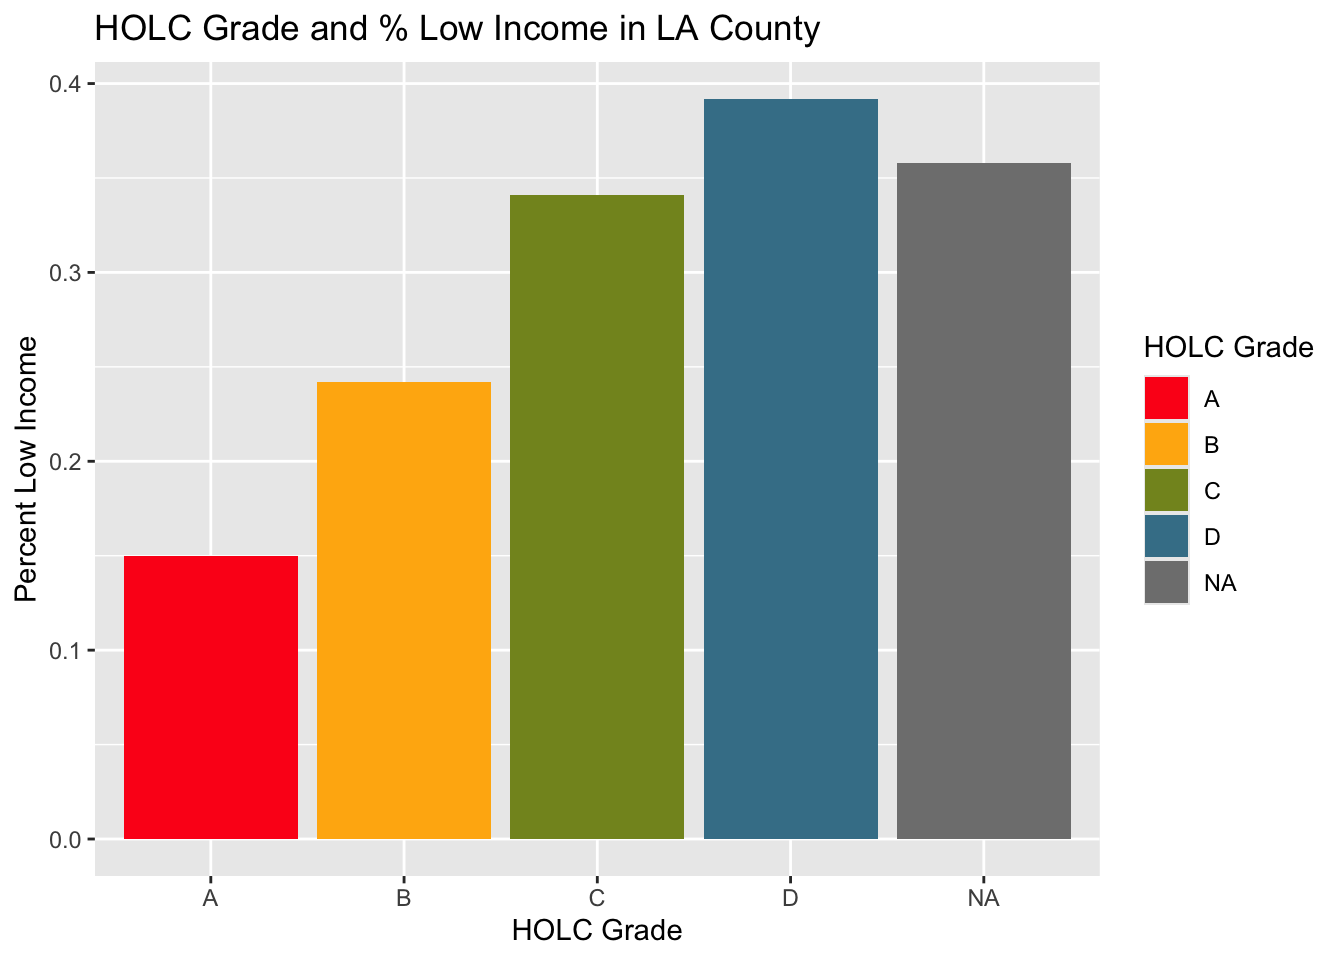
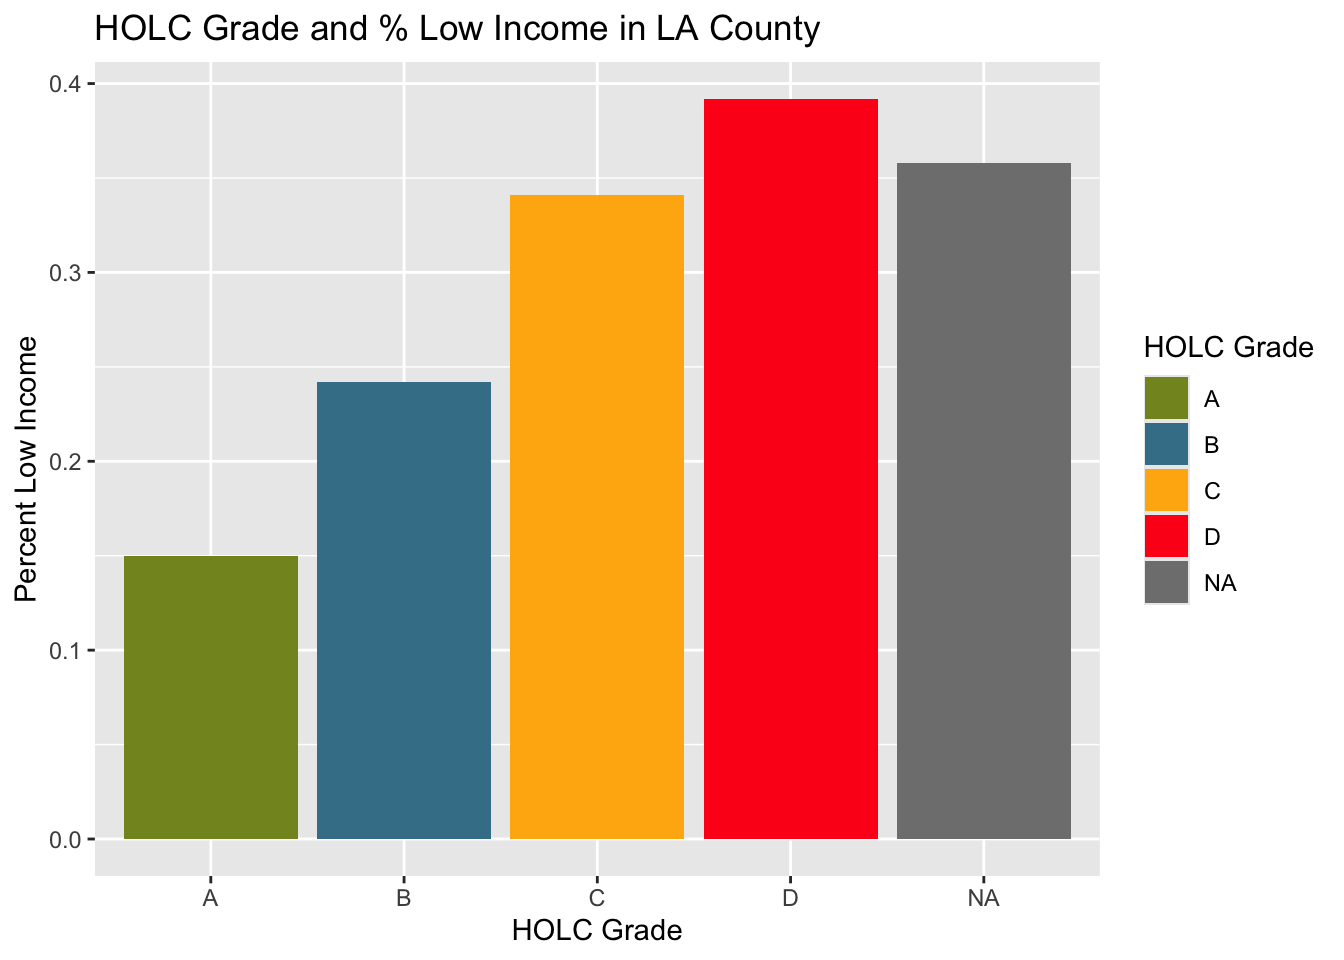
make changes to graphs

Changed region(s): [[0.0938, 0.0938, 0.6562, 0.875], [0.8438, 0.375, 0.9062, 0.5938]]

diff --git a/holc-biodiversity.html b/holc-biodiversity.html
@@ -131,7 +131,7 @@ pre > code.sourceCode > span > a:first-child::before { text-decoration: underlin
 
 <section id="about" class="level2">
 <h2 class="anchored" data-anchor-id="about">About</h2>
-<p>Redlining refers to a practice by the Home Owners’ Loan Corporation(HOLC) that dates back to the 1930’s. The HOLC would rate neighborhoods (A, B, C, or D) by “residential security” in various American cities. In this analysis we will explore the effects of redlining on health, economy, and environment today.</p>
+<p>Redlining refers to a practice by the Home Owners’ Loan Corporation(HOLC) that dates back to the 1930’s. The HOLC would rate neighborhoods (A - green, B - blue, C- yellow, or D - red) by “residential security” in various American cities. These ratings were often based on racial segregation and would then block access to loans for homeowners (<a href="https://pmc.ncbi.nlm.nih.gov/articles/PMC1447127/">Gee, G.C.</a> ). In this analysis we will explore the effects of redlining on health, economy, and environment today.</p>
 <section id="load-packages" class="level3">
 <h3 class="anchored" data-anchor-id="load-packages">Load packages</h3>
 <div class="cell">
@@ -198,7 +198,7 @@ pre > code.sourceCode > span > a:first-child::before { text-decoration: underlin
 <span id="cb5-6"><a href="#cb5-6" aria-hidden="true" tabindex="-1"></a><span class="fu">tm_shape</span>(la_red) <span class="sc">+</span></span>
 <span id="cb5-7"><a href="#cb5-7" aria-hidden="true" tabindex="-1"></a><span class="fu">tm_fill</span>(<span class="st">"grade"</span>,</span>
 <span id="cb5-8"><a href="#cb5-8" aria-hidden="true" tabindex="-1"></a>        <span class="at">title =</span> <span class="st">"HOLC grade"</span>,</span>
-<span id="cb5-9"><a href="#cb5-9" aria-hidden="true" tabindex="-1"></a>        <span class="at">palette =</span> <span class="fu">c</span>(<span class="st">"#FD151B"</span>, <span class="st">"#FFB30F"</span>, <span class="st">"#849324"</span>, <span class="st">"#437F97"</span>)) <span class="sc">+</span></span>
+<span id="cb5-9"><a href="#cb5-9" aria-hidden="true" tabindex="-1"></a>        <span class="at">palette =</span> <span class="fu">c</span>(<span class="st">"#849324"</span>,<span class="st">"#437F97"</span>, <span class="st">"#FFB30F"</span>, <span class="st">"#FD151B"</span>)) <span class="sc">+</span></span>
 <span id="cb5-10"><a href="#cb5-10" aria-hidden="true" tabindex="-1"></a>  <span class="fu">tm_scale_bar</span>(<span class="at">position =</span> <span class="fu">c</span>(<span class="st">"right"</span>, <span class="st">"top"</span>)) <span class="sc">+</span></span>
 <span id="cb5-11"><a href="#cb5-11" aria-hidden="true" tabindex="-1"></a>  <span class="fu">tm_compass</span>(<span class="at">position =</span> <span class="fu">c</span>(<span class="st">"right"</span>, <span class="st">"top"</span>),</span>
 <span id="cb5-12"><a href="#cb5-12" aria-hidden="true" tabindex="-1"></a>             <span class="at">size =</span> <span class="fl">1.5</span>,</span>
@@ -285,7 +285,7 @@ pre > code.sourceCode > span > a:first-child::before { text-decoration: underlin
 <span id="cb7-12"><a href="#cb7-12" aria-hidden="true" tabindex="-1"></a>                          <span class="at">y =</span> lowincpct, </span>
 <span id="cb7-13"><a href="#cb7-13" aria-hidden="true" tabindex="-1"></a>                          <span class="at">fill =</span> grade)) <span class="sc">+</span></span>
 <span id="cb7-14"><a href="#cb7-14" aria-hidden="true" tabindex="-1"></a>  <span class="fu">geom_col</span>() <span class="sc">+</span></span>
-<span id="cb7-15"><a href="#cb7-15" aria-hidden="true" tabindex="-1"></a>  <span class="fu">scale_fill_manual</span>(<span class="at">values =</span> <span class="fu">c</span>(<span class="st">"#FD151B"</span>, <span class="st">"#FFB30F"</span>, <span class="st">"#849324"</span>, <span class="st">"#437F97"</span>)) <span class="sc">+</span></span>
+<span id="cb7-15"><a href="#cb7-15" aria-hidden="true" tabindex="-1"></a>  <span class="fu">scale_fill_manual</span>(<span class="at">values =</span> <span class="fu">c</span>(<span class="st">"#849324"</span>,<span class="st">"#437F97"</span>, <span class="st">"#FFB30F"</span>, <span class="st">"#FD151B"</span>)) <span class="sc">+</span></span>
 <span id="cb7-16"><a href="#cb7-16" aria-hidden="true" tabindex="-1"></a>  <span class="fu">labs</span>(<span class="at">x =</span> <span class="st">"HOLC Grade"</span>, </span>
 <span id="cb7-17"><a href="#cb7-17" aria-hidden="true" tabindex="-1"></a>       <span class="at">y =</span> <span class="st">"Percent Low Income"</span>, </span>
 <span id="cb7-18"><a href="#cb7-18" aria-hidden="true" tabindex="-1"></a>       <span class="at">fill =</span> <span class="st">'HOLC Grade'</span>) <span class="sc">+</span></span>
@@ -305,7 +305,7 @@ pre > code.sourceCode > span > a:first-child::before { text-decoration: underlin
 <span id="cb8-3"><a href="#cb8-3" aria-hidden="true" tabindex="-1"></a>                          <span class="at">y =</span> pm25, </span>
 <span id="cb8-4"><a href="#cb8-4" aria-hidden="true" tabindex="-1"></a>                          <span class="at">fill =</span> grade)) <span class="sc">+</span></span>
 <span id="cb8-5"><a href="#cb8-5" aria-hidden="true" tabindex="-1"></a>  <span class="fu">geom_col</span>() <span class="sc">+</span></span>
-<span id="cb8-6"><a href="#cb8-6" aria-hidden="true" tabindex="-1"></a>  <span class="fu">scale_fill_manual</span>(<span class="at">values =</span> <span class="fu">c</span>(<span class="st">"#FD151B"</span>, <span class="st">"#FFB30F"</span>, <span class="st">"#849324"</span>, <span class="st">"#437F97"</span>)) <span class="sc">+</span></span>
+<span id="cb8-6"><a href="#cb8-6" aria-hidden="true" tabindex="-1"></a>  <span class="fu">scale_fill_manual</span>(<span class="at">values =</span> <span class="fu">c</span>(<span class="st">"#849324"</span>,<span class="st">"#437F97"</span>, <span class="st">"#FFB30F"</span>, <span class="st">"#FD151B"</span>)) <span class="sc">+</span></span>
 <span id="cb8-7"><a href="#cb8-7" aria-hidden="true" tabindex="-1"></a>  <span class="fu">labs</span>(<span class="at">x =</span> <span class="st">"HOLC Grade"</span>, </span>
 <span id="cb8-8"><a href="#cb8-8" aria-hidden="true" tabindex="-1"></a>       <span class="at">y =</span> <span class="st">"Percentile for Particulate Matter 2.5"</span>, </span>
 <span id="cb8-9"><a href="#cb8-9" aria-hidden="true" tabindex="-1"></a>       <span class="at">fill =</span> <span class="st">'HOLC Grade'</span>) <span class="sc">+</span></span>
@@ -324,7 +324,7 @@ pre > code.sourceCode > span > a:first-child::before { text-decoration: underlin
 <span id="cb9-2"><a href="#cb9-2" aria-hidden="true" tabindex="-1"></a>                          <span class="at">y =</span> lifeexppct, </span>
 <span id="cb9-3"><a href="#cb9-3" aria-hidden="true" tabindex="-1"></a>                          <span class="at">fill =</span> grade)) <span class="sc">+</span></span>
 <span id="cb9-4"><a href="#cb9-4" aria-hidden="true" tabindex="-1"></a>  <span class="fu">geom_col</span>() <span class="sc">+</span></span>
-<span id="cb9-5"><a href="#cb9-5" aria-hidden="true" tabindex="-1"></a>  <span class="fu">scale_fill_manual</span>(<span class="at">values =</span> <span class="fu">c</span>(<span class="st">"#FD151B"</span>, <span class="st">"#FFB30F"</span>, <span class="st">"#849324"</span>, <span class="st">"#437F97"</span>)) <span class="sc">+</span></span>
+<span id="cb9-5"><a href="#cb9-5" aria-hidden="true" tabindex="-1"></a>  <span class="fu">scale_fill_manual</span>(<span class="at">values =</span> <span class="fu">c</span>(<span class="st">"#849324"</span>,<span class="st">"#437F97"</span>, <span class="st">"#FFB30F"</span>, <span class="st">"#FD151B"</span>)) <span class="sc">+</span></span>
 <span id="cb9-6"><a href="#cb9-6" aria-hidden="true" tabindex="-1"></a>  <span class="fu">labs</span>(<span class="at">x =</span> <span class="st">"HOLC Grade"</span>, </span>
 <span id="cb9-7"><a href="#cb9-7" aria-hidden="true" tabindex="-1"></a>       <span class="at">y =</span> <span class="st">"Percentile for Low Life Expectancy"</span>, </span>
 <span id="cb9-8"><a href="#cb9-8" aria-hidden="true" tabindex="-1"></a>       <span class="at">fill =</span> <span class="st">'HOLC Grade'</span>) <span class="sc">+</span></span>
@@ -422,7 +422,7 @@ pre > code.sourceCode > span > a:first-child::before { text-decoration: underlin
 <span id="cb14-3"><a href="#cb14-3" aria-hidden="true" tabindex="-1"></a><span class="fu">geom_col</span>(<span class="fu">aes</span>(<span class="at">x =</span> grade, </span>
 <span id="cb14-4"><a href="#cb14-4" aria-hidden="true" tabindex="-1"></a>             <span class="at">y =</span> percent, </span>
 <span id="cb14-5"><a href="#cb14-5" aria-hidden="true" tabindex="-1"></a>             <span class="at">fill =</span> grade)) <span class="sc">+</span></span>
-<span id="cb14-6"><a href="#cb14-6" aria-hidden="true" tabindex="-1"></a><span class="fu">scale_fill_manual</span>(<span class="at">values =</span> <span class="fu">c</span>(<span class="st">"#FD151B"</span>, <span class="st">"#FFB30F"</span>, <span class="st">"#849324"</span>, <span class="st">"#437F97"</span>)) <span class="sc">+</span></span>
+<span id="cb14-6"><a href="#cb14-6" aria-hidden="true" tabindex="-1"></a><span class="fu">scale_fill_manual</span>(<span class="at">values =</span> <span class="fu">c</span>(<span class="st">"#849324"</span>,<span class="st">"#437F97"</span>, <span class="st">"#FFB30F"</span>, <span class="st">"#FD151B"</span>)) <span class="sc">+</span></span>
 <span id="cb14-7"><a href="#cb14-7" aria-hidden="true" tabindex="-1"></a><span class="fu">labs</span>(<span class="at">x =</span> <span class="st">"HOLC grade"</span>, </span>
 <span id="cb14-8"><a href="#cb14-8" aria-hidden="true" tabindex="-1"></a>     <span class="at">y =</span> <span class="st">"Percentage of observations"</span>, </span>
 <span id="cb14-9"><a href="#cb14-9" aria-hidden="true" tabindex="-1"></a>     <span class="at">fill =</span> <span class="st">'HOLC Grade'</span>) <span class="sc">+</span></span>
@@ -447,7 +447,7 @@ pre > code.sourceCode > span > a:first-child::before { text-decoration: underlin
 <span id="cb15-8"><a href="#cb15-8" aria-hidden="true" tabindex="-1"></a>  <span class="fu">select</span>(<span class="sc">-</span><span class="fu">c</span>(grade_count, total_area_km2)) <span class="sc">%&gt;%</span> </span>
 <span id="cb15-9"><a href="#cb15-9" aria-hidden="true" tabindex="-1"></a>  <span class="fu">st_drop_geometry</span>() </span>
 <span id="cb15-10"><a href="#cb15-10" aria-hidden="true" tabindex="-1"></a></span>
-<span id="cb15-11"><a href="#cb15-11" aria-hidden="true" tabindex="-1"></a><span class="fu">kable</span>(birds_count_area, <span class="at">caption =</span> <span class="st">"Bird observations per square kilometer in each HOLC grade"</span>)</span></code><button title="Copy to Clipboard" class="code-copy-button"><i class="bi"></i></button></pre></div>
+<span id="cb15-11"><a href="#cb15-11" aria-hidden="true" tabindex="-1"></a><span class="fu">kable</span>(birds_count_area,<span class="at">col.names =</span> <span class="fu">c</span>(<span class="st">"grade"</span>, <span class="st">"birds observations per square kilometer"</span>), <span class="at">caption =</span> <span class="st">"Bird observations per square kilometer in each HOLC grade"</span>)</span></code><button title="Copy to Clipboard" class="code-copy-button"><i class="bi"></i></button></pre></div>
 </details>
 <div class="cell-output-display">
 <table class="caption-top table table-sm table-striped small">
@@ -455,7 +455,7 @@ pre > code.sourceCode > span > a:first-child::before { text-decoration: underlin
 <thead>
 <tr class="header">
 <th style="text-align: left;">grade</th>
-<th style="text-align: right;">birds_per_km2</th>
+<th style="text-align: right;">birds observations per square kilometer</th>
 </tr>
 </thead>
 <tbody>
@@ -484,7 +484,7 @@ pre > code.sourceCode > span > a:first-child::before { text-decoration: underlin
 <span id="cb16-2"><a href="#cb16-2" aria-hidden="true" tabindex="-1"></a><span class="fu">geom_col</span>(<span class="fu">aes</span>(<span class="at">x =</span> grade, </span>
 <span id="cb16-3"><a href="#cb16-3" aria-hidden="true" tabindex="-1"></a>             <span class="at">y =</span> birds_per_km2, </span>
 <span id="cb16-4"><a href="#cb16-4" aria-hidden="true" tabindex="-1"></a>             <span class="at">fill =</span> grade)) <span class="sc">+</span></span>
-<span id="cb16-5"><a href="#cb16-5" aria-hidden="true" tabindex="-1"></a><span class="fu">scale_fill_manual</span>(<span class="at">values =</span> <span class="fu">c</span>(<span class="st">"#FD151B"</span>, <span class="st">"#FFB30F"</span>, <span class="st">"#849324"</span>, <span class="st">"#437F97"</span>)) <span class="sc">+</span></span>
+<span id="cb16-5"><a href="#cb16-5" aria-hidden="true" tabindex="-1"></a><span class="fu">scale_fill_manual</span>(<span class="at">values =</span> <span class="fu">c</span>(<span class="st">"#849324"</span>,<span class="st">"#437F97"</span>, <span class="st">"#FFB30F"</span>, <span class="st">"#FD151B"</span>)) <span class="sc">+</span></span>
 <span id="cb16-6"><a href="#cb16-6" aria-hidden="true" tabindex="-1"></a><span class="fu">labs</span>(<span class="at">x =</span> <span class="st">"HOLC grade"</span>, </span>
 <span id="cb16-7"><a href="#cb16-7" aria-hidden="true" tabindex="-1"></a>     <span class="at">y =</span> <span class="fu">expression</span>(<span class="fu">paste</span>(<span class="st">"Bird Observations per "</span>, km<span class="sc">^</span><span class="dv">2</span>)), </span>
 <span id="cb16-8"><a href="#cb16-8" aria-hidden="true" tabindex="-1"></a>     <span class="at">fill =</span> <span class="st">'HOLC Grade'</span>) <span class="sc">+</span></span>
@@ -527,6 +527,11 @@ pre > code.sourceCode > span > a:first-child::before { text-decoration: underlin
 <td><a href="https://gaftp.epa.gov/EJScreen/2024/2.31_August_useMe/EJScreen_2024_BG_with_AS_CNMI_GU_VI.gdb.zip">Geodatabase of National EJScreen Data at the Block Group Level</a></td>
 </tr>
 <tr class="even">
+<td>A multilevel analysis of the relationship between institutional and individual racial discrimination and health status</td>
+<td>Gee, G. C. (2008). A multilevel analysis of the relationship between institutional and individual racial discrimination and health status. American journal of public health, 98(Supplement_1), S48-S56</td>
+<td><a href="https://pmc.ncbi.nlm.nih.gov/articles/PMC1447127/" class="uri">https://pmc.ncbi.nlm.nih.gov/articles/PMC1447127/</a></td>
+</tr>
+<tr class="odd">
 <td>Historical redlining and biodiversity sampling artile</td>
 <td>Ellis-Soto, D., Chapman, M. &amp; Locke, D.H. Historical redlining is associated with increasing geographical disparities in bird biodiversity sampling in the United States. <em>Nat Hum Behav</em> <strong>7</strong>, 1869–1877 (2023). https://doi.org/10.1038/s41562-023-01688-5</td>
 <td><a href="https://www.nature.com/articles/s41562-023-01688-5#citeas" class="uri">https://www.nature.com/articles/s41562-023-01688-5#citeas</a></td>
